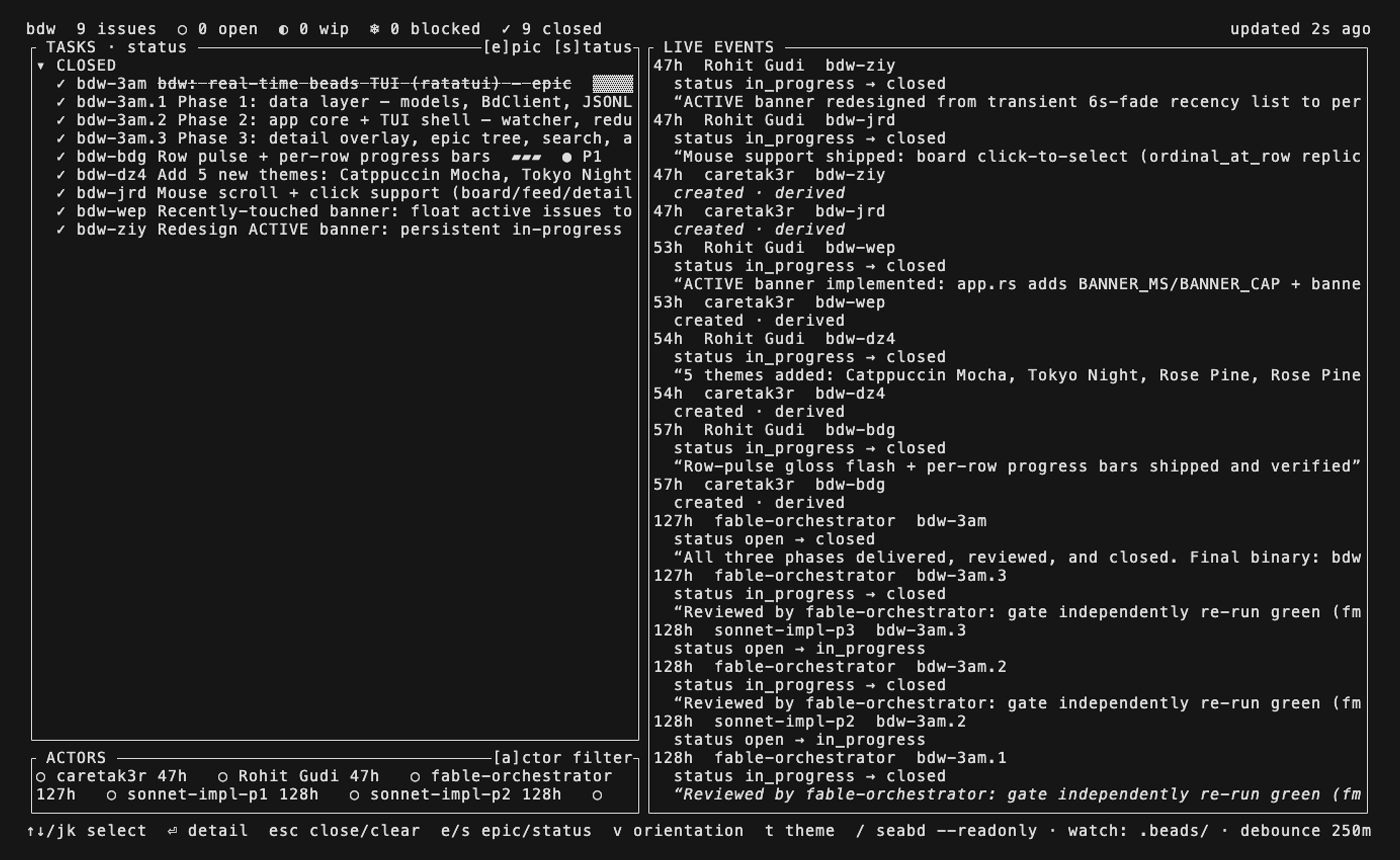
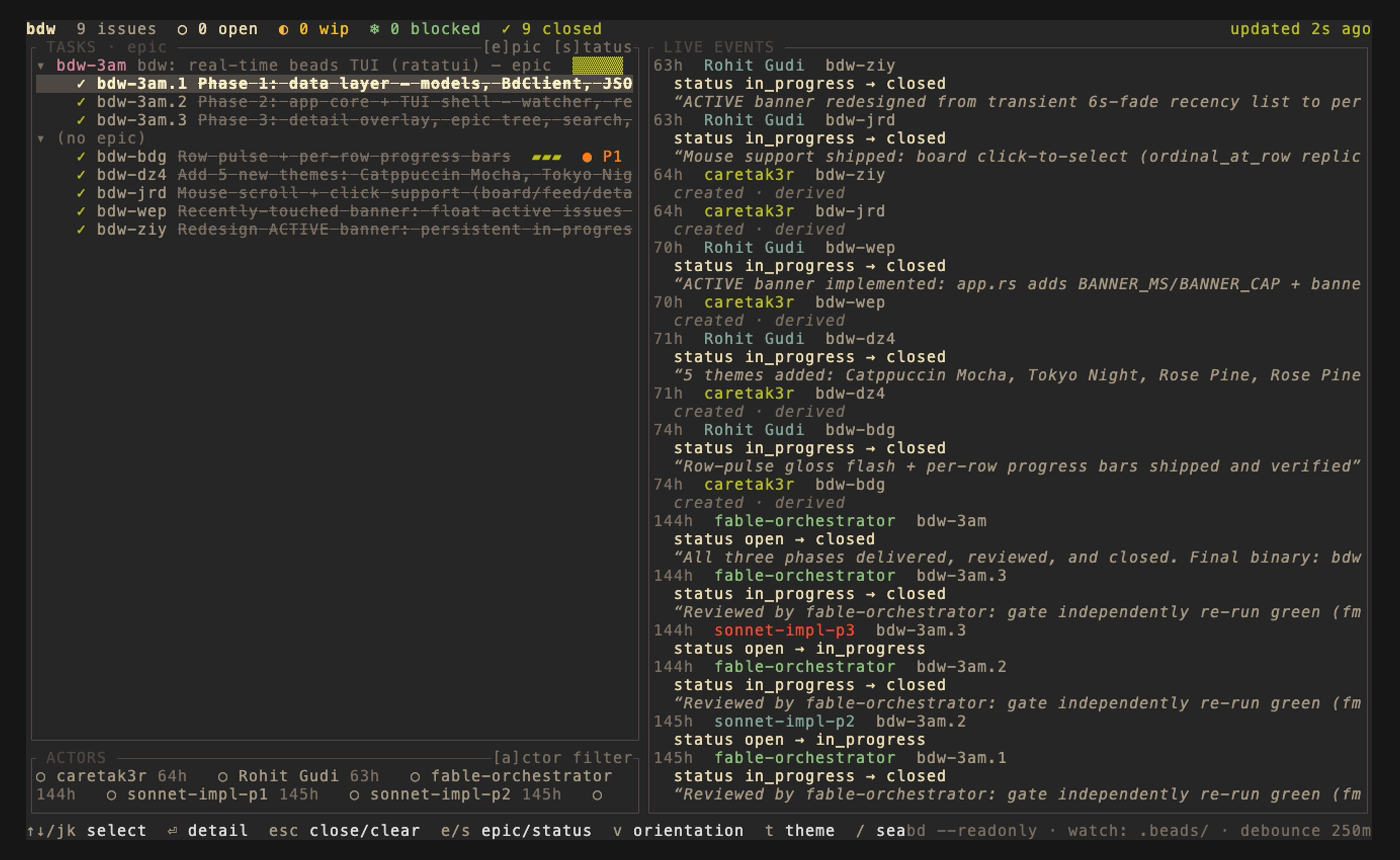
docs(readme): regenerate demo screenshots with real terminal colors
The previous GIFs/screenshots rendered monochrome because NO_COLOR was
set in the environment vhs's ttyd/bash session inherited it, and
crossterm disables all color output when NO_COLOR is present
(https://no-color.org/), even though bdw emits correct truecolor
escape codes.

- docs/demo.tape: document the NO_COLOR gotcha, require `env -u
  NO_COLOR vhs docs/demo.tape`, add a trailing Sleep after every
  Screenshot (VHS schedules captures asynchronously and an immediate
  following keypress can race/drop the frame), and drop the Hide/Show
  wrapper around the theme gallery captures, which reliably dropped
  every screenshot but the last one.
- Regenerate board-status.png, board-epic.png, detail.png, and
  board.gif with visible color (Nord/Gruvbox/Dracula).
- Add six new theme gallery screenshots (Catppuccin Mocha, Tokyo
  Night, Rose Pine, Everforest, Solarized Light, Rose Pine Dawn),
  replacing the old two-theme (dracula/solarized) set.
- README.md: add a Themes section with the new gallery, and correct
  the Release process section, which still described the old
  PR+auto-merge design instead of the current workflow_run-triggered
  single job.

diff --git a/README.md b/README.md
@@ -29,6 +29,18 @@ Full interaction (grouping toggle, detail overlay, live events feed):
 
 ![bdw demo](docs/screenshots/board.gif)
 
+### Themes
+
+`t` cycles through nine terminal-familiar palettes, persisted to `~/.config/bdw/theme`:
+
+| | | |
+| --- | --- | --- |
+| Catppuccin Mocha | Tokyo Night | Rosé Pine |
+| ![Catppuccin Mocha](docs/screenshots/theme-catppuccin-mocha.png) | ![Tokyo Night](docs/screenshots/theme-tokyo-night.png) | ![Rosé Pine](docs/screenshots/theme-rose-pine.png) |
+| Everforest | Solarized Light | Rosé Pine Dawn |
+| ![Everforest](docs/screenshots/theme-everforest.png) | ![Solarized Light](docs/screenshots/theme-solarized-light.png) | ![Rosé Pine Dawn](docs/screenshots/theme-rose-pine-dawn.png) |
+
+
 ## Features
 
 - **Live updates** — watches `.beads/` via `notify`, debounces bursts, and never invokes `bd` more than once a second.
@@ -94,9 +106,9 @@ This project dogfoods itself — its own `.beads/` directory is a real `bd` proj
 
 Releases are fully automatic (see [`.github/workflows/release-plz.yml`](.github/workflows/release-plz.yml)):
 
-1. Every push to `main` is built and tested across Linux and macOS.
-2. [`release-plz`](https://release-plz.dev) inspects commits since the last release; if any are semver-relevant ([Conventional Commits](https://www.conventionalcommits.org/)), it opens a PR bumping `Cargo.toml` and `CHANGELOG.md`, then auto-merges it.
-3. That merge triggers the pipeline again, `release-plz` cuts the git tag and GitHub Release, and prebuilt binaries are attached automatically.
+1. Every push to `main` is built and tested across Linux and macOS (`ci.yml`).
+2. When that CI run succeeds on `main`, a `workflow_run`-triggered job (`release-plz.yml`) runs [`release-plz`](https://release-plz.dev), which inspects commits since the last release. If any are semver-relevant ([Conventional Commits](https://www.conventionalcommits.org/)), it commits a `Cargo.toml`/`CHANGELOG.md` bump straight to `main` and cuts the git tag and GitHub Release in the same run.
+3. The new tag triggers `build-binaries`, which cross-compiles and attaches prebuilt binaries to the release.
 
 No manual `git tag` or release step is ever required. `fix:` commits bump patch, `feat:` bumps minor, `feat!:`/`BREAKING CHANGE:` bumps major.
 
